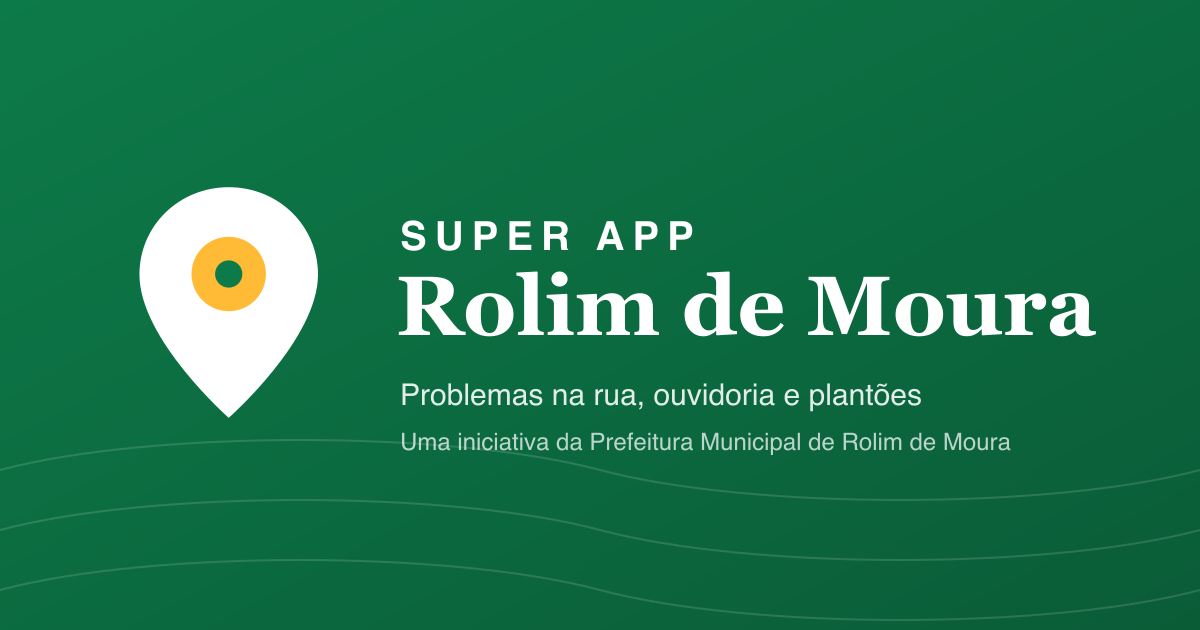
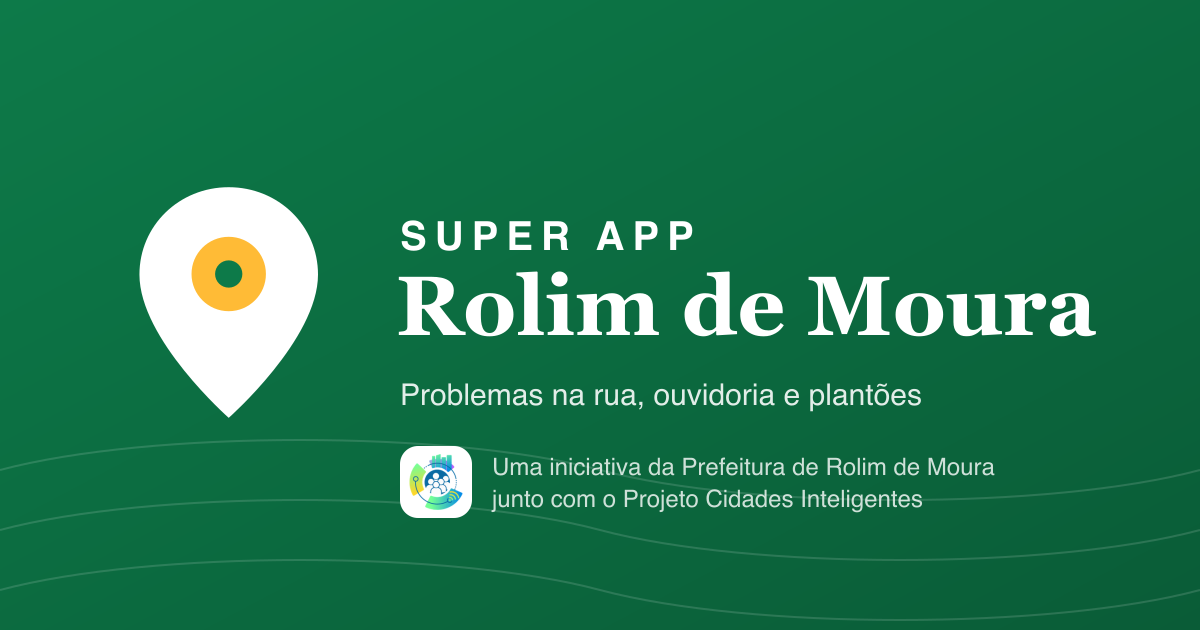
feat: crédito ao Projeto Cidades Inteligentes e foto de Rolim de Moura na Início
- "Uma iniciativa da Prefeitura de Rolim de Moura junto com o Projeto
  Cidades Inteligentes", com a logo do projeto, na abertura, apresentação,
  Entrar/Criar conta, Perfil, trilho lateral, painel, e-mails e imagem de
  compartilhamento; Perfil ganha o link para o projeto
- Cartão-postal da Início passa a ser uma foto da rotatória do centro
  (Franklin Baldo, CC BY 2.5, Wikimedia Commons), com crédito no Perfil
- Fotos (jpg/webp) entram no cache offline

Changed region(s): [[0.3083, 0.6937, 0.8633, 0.8444]]

diff --git a/web/index.html b/web/index.html
@@ -6,7 +6,7 @@
     <title>SUPER APP Rolim de Moura</title>
     <meta
       name="description"
-      content="Problemas na rua, ouvidoria, farmácias e funerárias de plantão e avisos. Uma iniciativa da Prefeitura Municipal de Rolim de Moura."
+      content="Problemas na rua, ouvidoria, farmácias e funerárias de plantão e avisos. Uma iniciativa da Prefeitura de Rolim de Moura junto com o Projeto Cidades Inteligentes."
     />
     <meta name="theme-color" content="#0d7a49" media="(prefers-color-scheme: light)" />
     <meta name="theme-color" content="#0f3b28" media="(prefers-color-scheme: dark)" />
@@ -18,7 +18,7 @@
     <meta property="og:title" content="SUPER APP Rolim de Moura" />
     <meta
       property="og:description"
-      content="Avise problemas na rua, fale com a ouvidoria e veja farmácias e funerárias de plantão. Uma iniciativa da Prefeitura Municipal de Rolim de Moura."
+      content="Avise problemas na rua, fale com a ouvidoria e veja farmácias e funerárias de plantão. Uma iniciativa da Prefeitura de Rolim de Moura junto com o Projeto Cidades Inteligentes."
     />
     <meta property="og:image" content="/og-image.png" />
     <meta property="og:locale" content="pt_BR" />
@@ -39,7 +39,7 @@
         html, html:has(.boot), html:has(.boot) body, .boot { background: #0f3b28; }
       }
       .boot-center { align-self: center; display: grid; justify-items: center; gap: 4px; }
-      .boot img { margin-bottom: 16px; }
+      .boot-center > img { margin-bottom: 16px; }
       .boot p { margin: 0; color: #ffffff; }
       .boot-kicker { font-size: 13px; letter-spacing: .2em; font-weight: 800; }
       .boot-title { font-family: Georgia, "Times New Roman", serif; font-size: 32px; font-weight: 600; }
@@ -47,7 +47,9 @@
       .boot-dots span { width: 8px; height: 8px; border-radius: 50%; background: #ffffff; opacity: .35; animation: boot-dot 1.2s infinite ease-in-out; }
       .boot-dots span:nth-child(2) { animation-delay: .2s; }
       .boot-dots span:nth-child(3) { animation-delay: .4s; }
-      .boot-foot { font-size: 13px; opacity: .85; max-width: 32ch; }
+      .boot-foot { display: flex; align-items: center; gap: 10px; max-width: 38ch; font-size: 13px; line-height: 1.4; text-align: left; }
+      .boot-foot p { opacity: .9; }
+      .boot-partner { flex: none; display: grid; place-items: center; width: 40px; height: 40px; border-radius: 12px; background: #ffffff; }
       .boot-sr { position: absolute; width: 1px; height: 1px; overflow: hidden; clip-path: inset(50%); white-space: nowrap; }
       .boot-error { margin-top: 24px; max-width: 30ch; }
       .boot .boot-error-title { font-size: 1.1875rem; font-weight: 700; line-height: 1.3; }
@@ -70,7 +72,10 @@
           <div class="boot-dots" aria-hidden="true"><span></span><span></span><span></span></div>
           <span class="boot-sr">Carregando o SUPER APP</span>
         </div>
-        <p class="boot-foot">Uma iniciativa da Prefeitura Municipal de Rolim de Moura</p>
+        <div class="boot-foot">
+          <span class="boot-partner"><img src="/parceiros/cidades-inteligentes.png" alt="" width="32" height="32" /></span>
+          <p>Uma iniciativa da Prefeitura de Rolim de Moura junto com o Projeto Cidades Inteligentes</p>
+        </div>
       </div>
     </div>
     <noscript>Ative o JavaScript para usar o SUPER APP Rolim de Moura.</noscript>

diff --git a/functions/src/mail.ts b/functions/src/mail.ts
@@ -1,5 +1,5 @@
 import { FieldValue, type Firestore } from "firebase-admin/firestore";
-import { APP_NAME, INSTITUTION, MAINTAINER_LINE } from "./config";
+import { APP_NAME, INSTITUTION, MAINTAINER_LINE, PARTNER_LOGO_PATH } from "./config";
 import { KIND_LABEL, STATUS_LABEL, statusMessage, type RequestKind, type RequestStatus } from "./domain";
 
 export interface MailMessage {
@@ -28,6 +28,15 @@ export function escapeHtml(value: string): string {
 }
 
 /** E-mail enviado ao cidadão quando a solicitação é aberta ou muda de status. */
+/** A logo do parceiro vem do mesmo endereço do app (o link do pedido). */
+function partnerLogoUrl(link: string): string | null {
+  try {
+    return new URL(PARTNER_LOGO_PATH, link).toString();
+  } catch {
+    return null;
+  }
+}
+
 export function buildRequestMail(input: RequestMailInput): MailMessage {
   const kindLabel = KIND_LABEL[input.kind];
   const statusLabel = STATUS_LABEL[input.status];
@@ -62,6 +71,7 @@ export function buildRequestMail(input: RequestMailInput): MailMessage {
        </td></tr>`
     : "";
 
+  const partnerLogo = partnerLogoUrl(input.link);
   const html = `<!doctype html>
 <html lang="pt-BR"><body style="margin:0;background:#f3f5f2;font-family:Arial,Helvetica,sans-serif;color:#1d2a22">
 <table role="presentation" width="100%" cellpadding="0" cellspacing="0" style="padding:24px 12px">
@@ -85,7 +95,10 @@ export function buildRequestMail(input: RequestMailInput): MailMessage {
     <a href="${escapeHtml(input.link)}" style="display:inline-block;background:#0d7a49;color:#ffffff;text-decoration:none;padding:12px 20px;border-radius:999px;font-weight:bold">Acompanhar no aplicativo</a>
   </td></tr>
 </table>
-<div style="font-size:12px;color:#5b6b61;margin-top:12px">${escapeHtml(MAINTAINER_LINE)} · Mensagem automática, não responda este e-mail.</div>
+<table role="presentation" cellpadding="0" cellspacing="0" style="max-width:560px;margin-top:12px"><tr>
+  ${partnerLogo ? `<td style="padding-right:10px;vertical-align:middle"><img src="${escapeHtml(partnerLogo)}" width="32" height="32" alt="" style="display:block;border:0"></td>` : ""}
+  <td style="font-size:12px;color:#5b6b61;vertical-align:middle">${escapeHtml(MAINTAINER_LINE)} · Mensagem automática, não responda este e-mail.</td>
+</tr></table>
 </td></tr></table>
 </body></html>`;
 

diff --git a/web/src/pages/profile/ProfilePage.tsx b/web/src/pages/profile/ProfilePage.tsx
@@ -5,7 +5,7 @@ import { useAuth } from "@/auth/AuthContext";
 import { InstallHowToSheet } from "@/components/install/InstallHowToSheet";
 import { PushToggle, pushAvailable } from "@/components/PushToggle";
 import { ListGroup, ListRow } from "@/components/ui/ListGroup";
-import { APP_NAME, MAINTAINER_LINE } from "@/config/city";
+import { APP_NAME, HOME_PHOTO_CREDIT, MAINTAINER_LINE, PARTNER } from "@/config/city";
 import { version as APP_VERSION } from "../../../package.json";
 import { CompleteProfileInvite } from "./CompleteProfileInvite";
 import { ProfileLoadError } from "./ProfileLoadError";
@@ -85,6 +85,12 @@ export default function ProfilePage() {
         />
         <ListRow icon={<IconShieldLock size={22} stroke={1.8} />} label="Privacidade e uso de dados" to="/privacidade" />
         <ListRow
+          icon={<img src={PARTNER.logo} alt="" width={28} height={28} />}
+          label={PARTNER.name}
+          description="Conheça o projeto parceiro do app"
+          href={PARTNER.url}
+        />
+        <ListRow
           icon={<IconInfoCircle size={22} stroke={1.8} />}
           label="Sobre o app"
           description={
@@ -93,6 +99,7 @@ export default function ProfilePage() {
                 {APP_NAME}, versão {APP_VERSION}
               </span>
               <span className={classes.aboutLine}>{MAINTAINER_LINE}</span>
+              <span className={classes.aboutLine}>{HOME_PHOTO_CREDIT.text}</span>
             </>
           }
         />

diff --git a/web/src/components/LoadingScreen.tsx b/web/src/components/LoadingScreen.tsx
@@ -1,6 +1,6 @@
 import { Stack } from "@mantine/core";
 import { createContext, useContext, type ReactNode } from "react";
-import { MAINTAINER_LINE } from "@/config/city";
+import { MAINTAINER_LINE, PARTNER } from "@/config/city";
 
 // As classes .boot* ficam no <style> do index.html: valem antes de qualquer
 // CSS do app e não dependem do tema (verde no claro e no escuro).
@@ -12,6 +12,18 @@ function BootBrand({ children }: { children?: ReactNode }) {
       <p className="boot-kicker">SUPER APP</p>
       <p className="boot-title">Rolim de Moura</p>
       {children}
+    </div>
+  );
+}
+
+/** Pé da abertura: a prefeitura e o Projeto Cidades Inteligentes. */
+function BootFoot() {
+  return (
+    <div className="boot-foot">
+      <span className="boot-partner">
+        <img src={PARTNER.logo} alt="" width={32} height={32} />
+      </span>
+      <p>{MAINTAINER_LINE}</p>
     </div>
   );
 }
@@ -28,7 +40,7 @@ export function BootSplash() {
         </div>
         <span className="boot-sr">Carregando o SUPER APP</span>
       </BootBrand>
-      <p className="boot-foot">{MAINTAINER_LINE}</p>
+      <BootFoot />
     </div>
   );
 }
@@ -46,7 +58,7 @@ export function BootError() {
           Tentar de novo
         </button>
       </BootBrand>
-      <p className="boot-foot">{MAINTAINER_LINE}</p>
+      <BootFoot />
     </div>
   );
 }

diff --git a/web/src/pages/home/HomeHeader.tsx b/web/src/pages/home/HomeHeader.tsx
@@ -9,7 +9,7 @@ interface HomeHeaderProps {
   now: Date;
 }
 
-/** Saudação, data por extenso e o cartão-postal da cidade (continua o verde da barra). */
+/** Saudação, data por extenso e a foto da cidade em cartão-postal (continua o verde da barra). */
 export function HomeHeader({ now }: HomeHeaderProps) {
   const { user, profile, staff, loading } = useAuth();
   const name = firstName(profile?.fullName ?? user?.displayName);
@@ -21,7 +21,18 @@ export function HomeHeader({ now }: HomeHeaderProps) {
         <span className={classes.lead}>{title.lead}</span>
         {title.rest}
       </h1>
-      <img src="/ilustracoes/cidade.svg" width={220} height={120} alt="" aria-hidden className={classes.art} />
+      {/* Foto: Franklin Baldo, CC BY 2.5, via Wikimedia Commons (créditos em Perfil › Sobre o app) */}
+      <picture className={classes.artFrame}>
+        <source srcSet="/ilustracoes/rolim-de-moura.webp" type="image/webp" />
+        <img
+          src="/ilustracoes/rolim-de-moura.jpg"
+          width={220}
+          height={120}
+          alt="Rotatória no centro de Rolim de Moura"
+          decoding="async"
+          className={classes.art}
+        />
+      </picture>
       <p className={classes.date}>
         <time dateTime={toIsoDate(now)}>{longDate(now)}</time>
       </p>

diff --git a/web/src/components/brand/MaintainerCredit.tsx b/web/src/components/brand/MaintainerCredit.tsx
@@ -1,0 +1,24 @@
+import { MAINTAINER_LINE, PARTNER } from "@/config/city";
+import classes from "./MaintainerCredit.module.css";
+
+export type CreditVariant = "paper" | "green" | "rail";
+
+interface MaintainerCreditProps {
+  /** paper: fundo claro; green: sobre o verde do app; rail: só a logo (trilho lateral) */
+  variant?: CreditVariant;
+  align?: "start" | "center";
+  className?: string;
+}
+
+/** "Uma iniciativa da Prefeitura … junto com o Projeto Cidades Inteligentes" com a logo do projeto. */
+export function MaintainerCredit({ variant = "paper", align = "start", className }: MaintainerCreditProps) {
+  return (
+    <p className={className ? `${classes.credit} ${className}` : classes.credit} data-variant={variant} data-align={align}>
+      <span className={classes.badge}>
+        {/* O nome do projeto já está no texto: a logo é só a assinatura visual */}
+        <img src={PARTNER.logo} alt="" width={32} height={32} className={classes.logo} />
+      </span>
+      <span className={variant === "rail" ? "visually-hidden" : classes.text}>{MAINTAINER_LINE}</span>
+    </p>
+  );
+}

diff --git a/web/src/config/city.ts b/web/src/config/city.ts
@@ -8,7 +8,21 @@ export const APP_KICKER = "SUPER APP";
 export const CITY_NAME = "Rolim de Moura";
 export const STATE = "RO";
 export const INSTITUTION = "Prefeitura Municipal de Rolim de Moura";
-export const MAINTAINER_LINE = `Uma iniciativa da ${INSTITUTION}`;
+
+/** Parceiro do app; a logo fica em public/parceiros. */
+export const PARTNER = {
+  name: "Projeto Cidades Inteligentes",
+  url: "https://cidadesinteligentes.online/",
+  logo: "/parceiros/cidades-inteligentes.png",
+} as const;
+
+export const MAINTAINER_LINE = `Uma iniciativa da Prefeitura de Rolim de Moura junto com o ${PARTNER.name}`;
+
+/** Crédito da foto da cidade no topo da Início (licença CC BY 2.5 pede a autoria). */
+export const HOME_PHOTO_CREDIT = {
+  text: "Foto da rotatória no centro: Franklin Baldo, CC BY 2.5, via Wikimedia Commons",
+  url: "https://commons.wikimedia.org/wiki/File:Rolim_de_moura_-_foto_da_rotat%C3%B3ria.JPG",
+} as const;
 export const IBGE_CODE = "1100288";
 
 export const CITY_CENTER = { lat: -11.7271, lng: -61.7782 } as const;

diff --git a/web/src/features/onboarding/OnboardingPage.tsx b/web/src/features/onboarding/OnboardingPage.tsx
@@ -4,7 +4,8 @@ import { useSearchParams } from "react-router";
 import { useAuth } from "@/auth/AuthContext";
 import { useAppNavigate } from "@/components/AppLink";
 import { BrandMark } from "@/components/brand/BrandMark";
-import { APP_NAME, MAINTAINER_LINE } from "@/config/city";
+import { MaintainerCredit } from "@/components/brand/MaintainerCredit";
+import { APP_NAME } from "@/config/city";
 import { useBackNavigation } from "@/hooks/useBackNavigation";
 import { useDocumentTitle } from "@/hooks/useDocumentTitle";
 import { completeOnboarding } from "./onboardingState";
@@ -120,10 +121,7 @@ export default function OnboardingPage() {
             }}
           >
             {i === 0 && (
-              <p className={classes.maintainer}>
-                <img src="/logo.svg" alt="" width={28} height={28} />
-                <span>{MAINTAINER_LINE}</span>
-              </p>
+              <MaintainerCredit className={classes.maintainer} />
             )}
             {i === LAST && <SettingsPanel />}
           </Slide>

diff --git a/web/vite.config.ts b/web/vite.config.ts
@@ -83,7 +83,7 @@ export default defineConfig({
       registerType: "prompt",
       injectRegister: false,
       injectManifest: {
-        globPatterns: ["**/*.{js,css,html,svg,png,ico,woff2,webmanifest}"],
+        globPatterns: ["**/*.{js,css,html,svg,png,jpg,webp,ico,woff2,webmanifest}"],
         // Imagem de compartilhamento não precisa ir para o cache offline
         globIgnores: ["og-image.png", "loja/**", "apple-splash-*"],
         maximumFileSizeToCacheInBytes: 4 * 1024 * 1024,
@@ -95,7 +95,7 @@ export default defineConfig({
         name: "SUPER APP Rolim de Moura",
         short_name: "SUPER APP",
         description:
-          "Problemas na rua, ouvidoria, farmácias e funerárias de plantão e avisos. Uma iniciativa da Prefeitura Municipal de Rolim de Moura.",
+          "Problemas na rua, ouvidoria, farmácias e funerárias de plantão e avisos. Uma iniciativa da Prefeitura de Rolim de Moura junto com o Projeto Cidades Inteligentes.",
         lang: "pt-BR",
         dir: "ltr",
         start_url: "/",

diff --git a/web/src/components/brand/MaintainerCredit.module.css b/web/src/components/brand/MaintainerCredit.module.css
@@ -1,0 +1,52 @@
+.credit {
+  display: flex;
+  align-items: center;
+  gap: 10px;
+  margin: 0;
+  color: var(--app-ink-soft);
+  font-size: 0.875rem;
+  line-height: 1.4;
+
+  &[data-align="center"] {
+    justify-content: center;
+    text-align: left;
+  }
+
+  &[data-variant="green"],
+  &[data-variant="rail"] {
+    color: #ffffff;
+  }
+
+  &[data-variant="rail"] {
+    justify-content: center;
+  }
+}
+
+/* No verde, a logo colorida ganha um fundo branco para não se misturar */
+.badge {
+  display: grid;
+  flex-shrink: 0;
+  place-items: center;
+  width: 40px;
+  height: 40px;
+  border-radius: 12px;
+  background: #ffffff;
+  box-shadow: 0 0 0 1px var(--app-line);
+
+  .credit[data-variant="green"] &,
+  .credit[data-variant="rail"] & {
+    box-shadow: none;
+  }
+}
+
+.logo {
+  display: block;
+  width: 32px;
+  height: 32px;
+}
+
+.text {
+  min-width: 0;
+  max-width: 34ch;
+  text-wrap: pretty;
+}

diff --git a/web/src/layouts/chrome/NavRail.tsx b/web/src/layouts/chrome/NavRail.tsx
@@ -2,7 +2,7 @@ import { IconLayoutDashboard, IconLogin2, IconPlus } from "@tabler/icons-react";
 import { useLocation } from "react-router";
 import { useAuth } from "@/auth/AuthContext";
 import { AppLink } from "@/components/AppLink";
-import { MAINTAINER_LINE } from "@/config/city";
+import { MaintainerCredit } from "@/components/brand/MaintainerCredit";
 import { withNext } from "@/pages/auth/nextPath";
 import { ariaCurrentFor, NAV_ITEMS, PROFILE_ROOT, tabState } from "./navItems";
 import classes from "./NavRail.module.css";
@@ -103,7 +103,7 @@ export function NavRail({ sheetOpen, onRequest, hasUnreadNotices }: NavRailProps
             <span className={classes.label}>Entrar</span>
           </AppLink>
         )}
-        <p className={classes.maintainer}>{MAINTAINER_LINE}</p>
+        <MaintainerCredit variant="rail" className={classes.maintainer} />
       </div>
     </nav>
   );

diff --git a/web/src/layouts/AdminLayout.tsx b/web/src/layouts/AdminLayout.tsx
@@ -16,7 +16,8 @@ import {
 import { Link, Outlet, useLocation } from "react-router";
 import { useAuth } from "@/auth/AuthContext";
 import { BrandMark } from "@/components/brand/BrandMark";
-import { APP_NAME, MAINTAINER_LINE } from "@/config/city";
+import { MaintainerCredit } from "@/components/brand/MaintainerCredit";
+import { APP_NAME } from "@/config/city";
 import { firstName } from "@/domain/format";
 import { useDocumentTitle } from "@/hooks/useDocumentTitle";
 import { RoleBadge } from "@/pages/admin/RoleBadge";
@@ -64,7 +65,7 @@ function PanelFooter({ className }: { className: string }) {
           ))}
         </div>
       )}
-      <p className={classes.maintainer}>{MAINTAINER_LINE}</p>
+      <MaintainerCredit className={classes.maintainer} />
     </div>
   );
 }
